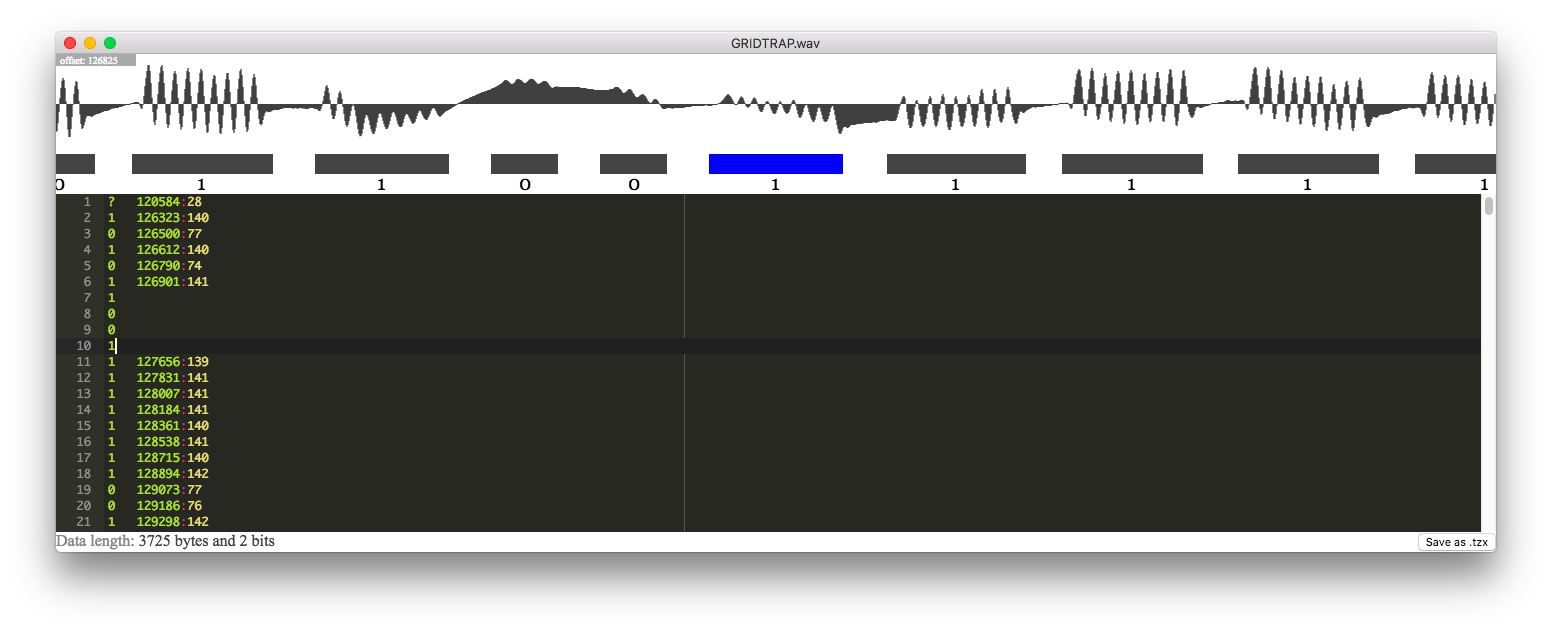
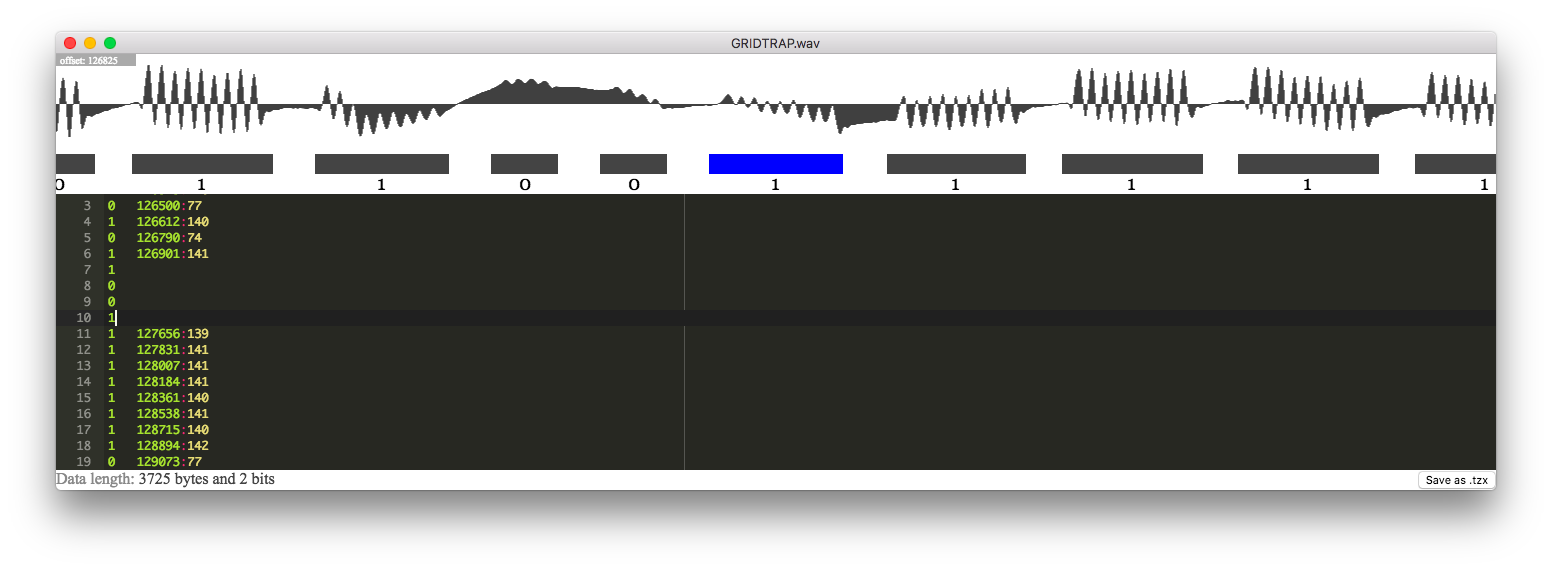
moved loss of signal comments to same line so that link to visual representation wouldn't break

Changed region(s): [[0.0309, 0.0596, 0.9897, 0.8947], [0.0619, 0.507, 0.0928, 0.5368]]

diff --git a/app.js b/app.js
@@ -114,7 +114,7 @@ renderer.on('inputFile', (event, inputFile) => {
     while (idx > firstBitIdx) {
         var pauseBeforeRun = runs[idx].index - (runs[idx - 1].index + runs[idx - 1].runLength);
         if (pauseBeforeRun > 2*silenceRunLength) {
-            linesForEdit.splice(idx, 0, '# suspicious loss of signal?')
+            linesForEdit[idx - 1] = linesForEdit[idx - 1] + ' # suspicious loss of signal?'
         }
         idx--;
     }
@@ -210,7 +210,7 @@ function repaintCanvas() {
 
 function parseLine(str) {
     str = str.split('#')[0];
-    var editorLineRegex = /^(.)\s*(\d*)?(?::(\d*))?$/;
+    var editorLineRegex = /^(.)\s*(\d*)?(?::(\d*))?\s*$/;
     return editorLineRegex.exec(str);
 }
 
